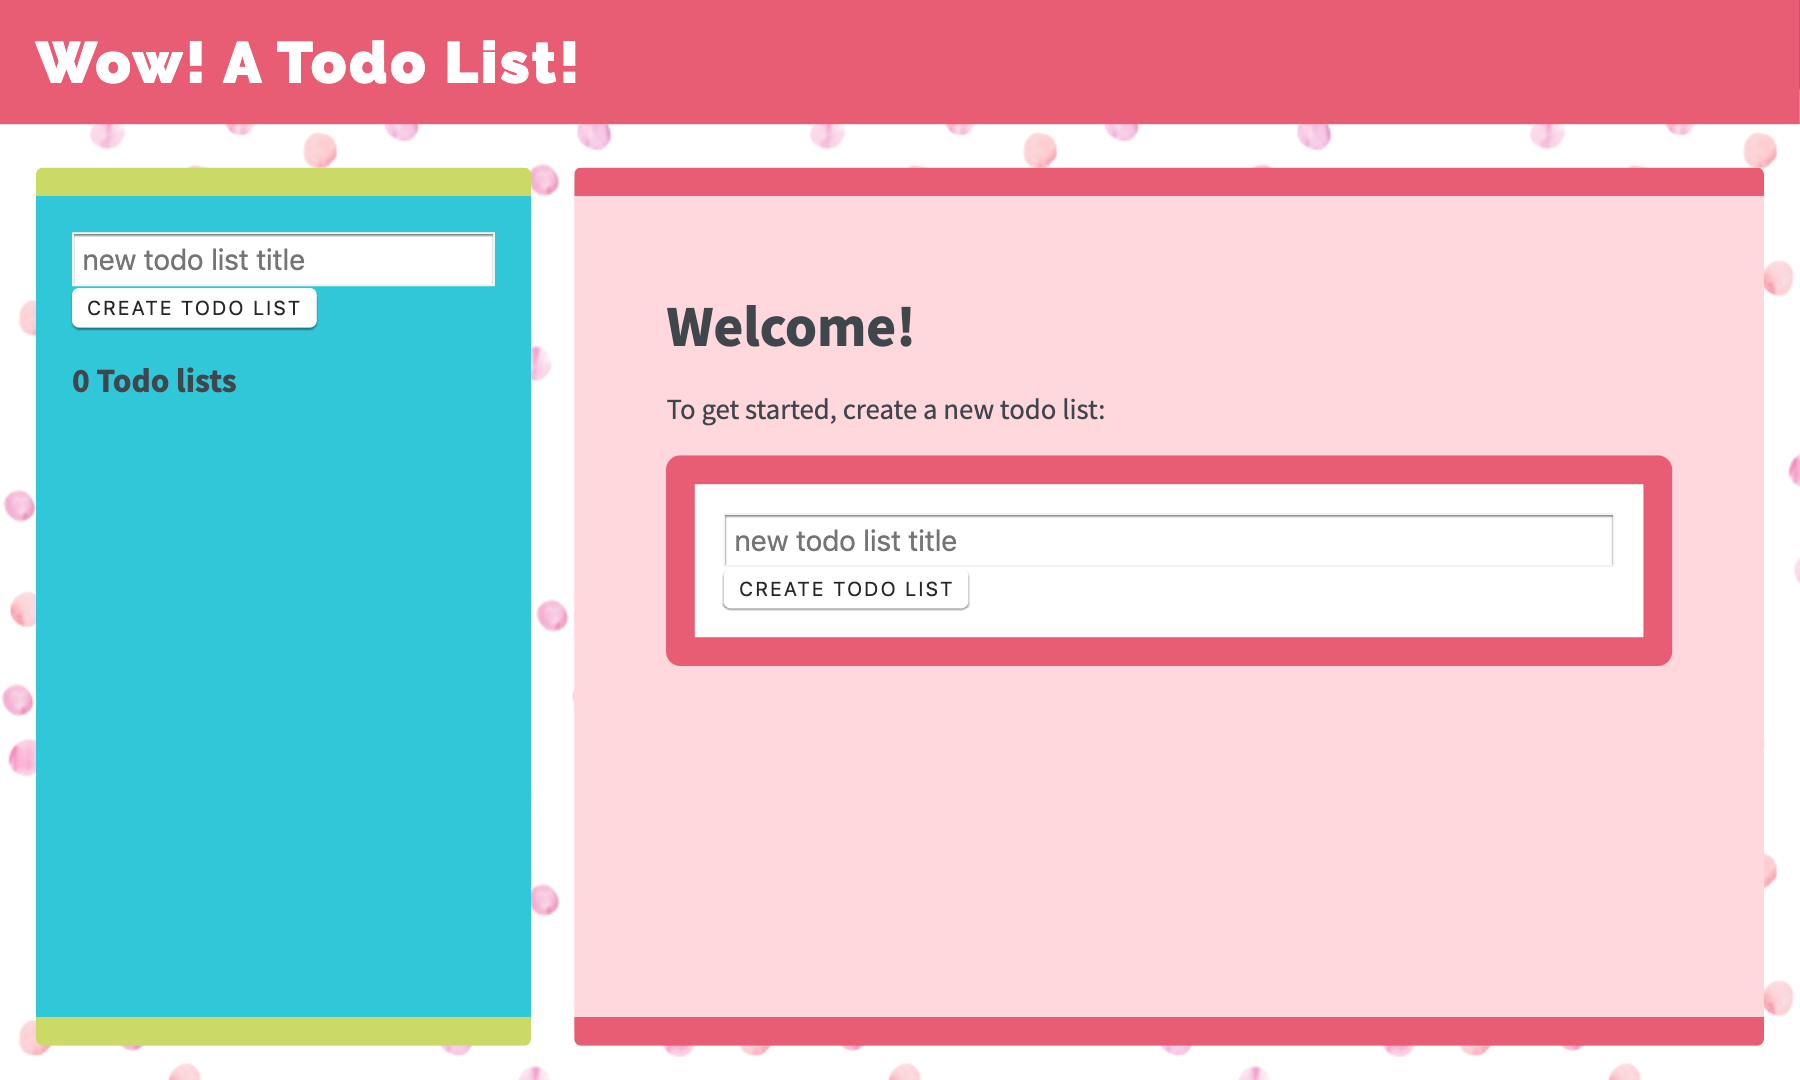
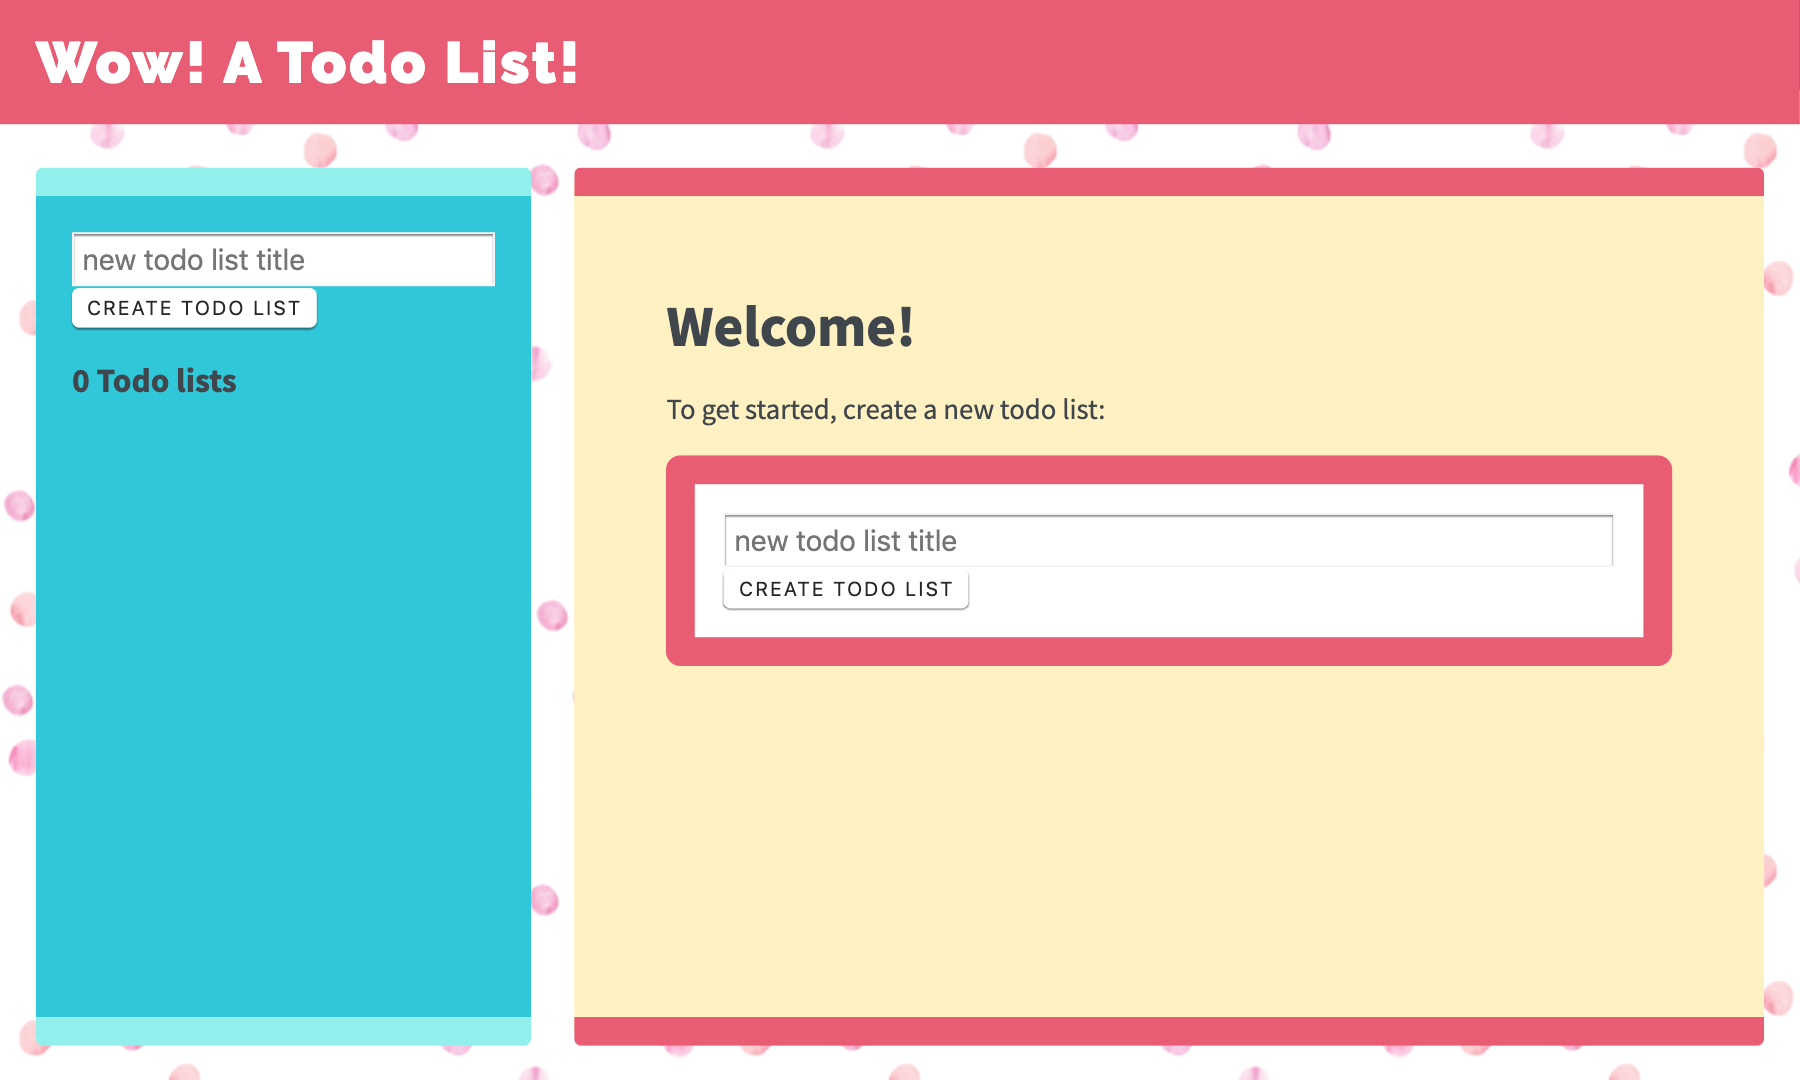
styles

diff --git a/sass/main.scss b/sass/main.scss
@@ -1,7 +1,14 @@
 $green: #cbd966;
+$green: #93efec;
+
 $hot: #e92444;
 $hot: #e95d74;
+// $hot: #facf3b;
+
 $hot-light: #ffd8de;
+$hot-light: #fff1c1;
+
+$body: #3f464c;
 
 html {
   box-sizing: border-box;
@@ -96,10 +103,24 @@ h1, h2 {
   }
 }
 
+
+.todos {
+  list-style: none;
+  margin: 0 0;
+  padding: 0;
+}
+
 .todo {
-  border-bottom: 1px solid #eee;
+  padding: .5rem;
+  background: white;
+  margin-bottom: 1px;
+
   &:last-child {
     border-bottom: none;
+  }
+  &:hover {
+    background: $hot;
+    color: white;
   }
 }
 
@@ -138,7 +159,7 @@ h1, h2 {
 .todo-list-summary {
   a {
     text-decoration: none;
-    background: rgba(255,255,255,10.9);
+    background: white;
     color: $hot;
     padding: 1rem;
     display: block;
@@ -164,18 +185,6 @@ h1, h2 {
 
 .new-todo {
   margin-bottom: 1rem;
-}
-
-.todos {
-  list-style: none;
-  margin: 0 0;
-  padding: 0;
-}
-
-.todo {
-  padding: .5rem;
-  background: rgba(255,255,255,0.5);
-  margin-bottom: 1px;
 }
 
 input[type=text], input[type=email], input[type=password],

diff --git a/README.md b/README.md
@@ -92,6 +92,40 @@ In even these two simple steps there's a lot going on, including:
 
 Let's dig in!
 
+### App Initialization
+
+When you open the home page, the app renders the correct components.
+
+CLJS apps need to get initialized somehow, even if that's simply a
+matter of rendering a component to the DOM.
+
+If you look in the `sweet-tooth.todo-example.frontend.core`
+namespace, you'll see this:
+
+```clojure
+(defn system-config
+  "This is a function instead of a static value so that it will pick up
+  reloaded changes"
+  []
+  (mm/meta-merge stconfig/default-config
+                 {::stfr/frontend-router {:use    :reitit
+                                          :routes froutes/frontend-routes}
+                  ::stfr/sync-router     {:use    :reitit
+                                          :routes (ig/ref ::eroutes/routes)}
+
+                  ;; Treat handler registration as an external service,
+                  ;; interact with it via re-frame effects
+                  ::stjehf/handlers {}
+                  ::eroutes/routes  ""}))
+
+(defn -main []
+  (rf/dispatch-sync [::stcf/init-system (system-config)])
+  (rf/dispatch-sync [::stnf/dispatch-current])
+  (r/render [app/app] (stcu/el-by-id "app")))
+```
+
+
+
 ### Frontend Route Handling
 
 
